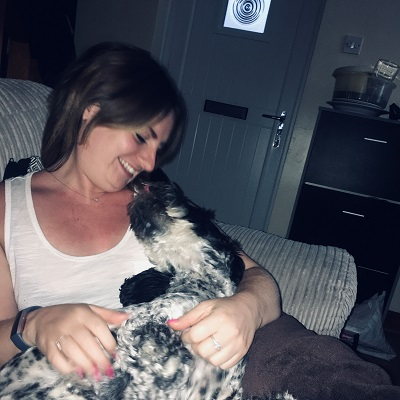
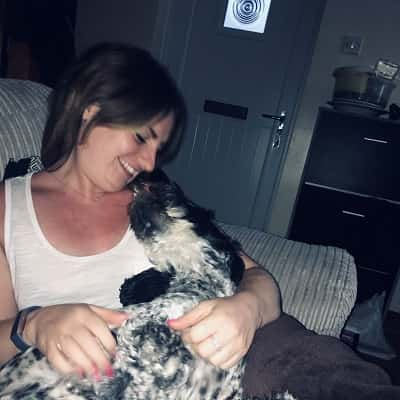
images compressed, css tweaks

diff --git a/pages/index.vue b/pages/index.vue
@@ -16,7 +16,7 @@
                   Dog Walking & Pet Sitting for your Furry Friends
                 </p>
               </div>
-              <nuxt-link to="/contact" class="btn btn btn-primary mt-3">
+              <nuxt-link to="/contact" class="btn btn btn-primary mt-3 pl-5 pr-5">
                 Contact Me
               </nuxt-link>
             </div>
@@ -26,8 +26,8 @@
     </section>
     <section id="about" class="container-fluid about-section">
       <div class="row">
-        <div class="col-12 col-md-6 order-md-2">
-          <div class="polaroid" data-aos="flip-up" data-aos-duration="1200" data-aos-offset="400">
+        <div class="col-12 col-md-6 order-md-2" data-aos="flip-up" data-aos-duration="1000" data-aos-offset="300">
+          <div class="polaroid">
             <img src="~static/img/happy-trails-zoe.jpeg" alt="happy trails pet services with a furry friend!">
             <div class="caption font-cursive">
               Hi, I'm Zoe, your fairy dog mother!
@@ -50,7 +50,7 @@
           <p>
             I am more than happy to help each and every one of you. My goal is to care and love your pets as much as you do and take them on fun adventures day in day out.
           </p>
-          <nuxt-link to="/contact" type="btn" class="btn btn-secondary ml-1">
+          <nuxt-link to="/contact" type="btn" class="btn btn-secondary ml-1 pl-5 pr-5">
             Contact Me
           </nuxt-link>
         </div>
@@ -125,7 +125,7 @@ export default {
   background: $site-blue;
 
   .polaroid {
-    max-width: 70%;
+    max-width: 76%;
     margin: 2rem auto;
     padding: 0.8rem;
     background: #fff;
@@ -194,7 +194,7 @@ export default {
 
 .about-section {
   padding-top: 100px;
-  padding-bottom: 100px;
+  padding-bottom: 9vw;
 }
 
 }

diff --git a/pages/contact.vue b/pages/contact.vue
@@ -2,7 +2,7 @@
   <div>
     <section class="contact">
       <div class="container">
-        <div class="row pb-3 pb-md-5">
+        <div class="row">
           <div class="col-12 text-right contact-main pr-0">
             <h1 class="font-cursive get-in-touch pl-3 pr-3">
               Get in touch
@@ -16,7 +16,7 @@
               <li><a href="https://www.instagram.com/happytrailspetservices"><fa :icon="['fab','instagram']" /><span class="pl-2 d-none d-md-inline">Follow me on Instagram: </span><h5 class="d-inline pl-2">happytrailspetservices</h5></a></li>
             </ul>
           </div>
-          <div class="col-12 pb-5">
+          <div class="col-12">
             <form method="POST" action="https://formspree.io/ed.walker@hotmail.co.uk">
               <div class="form-row">
                 <div class="form-group col-12 col-md-6">
@@ -39,7 +39,7 @@
                   <textarea id="message" class="form-control" name="message" required />
                 </div>
 
-                <button type="btn" class="btn btn-secondary ml-1">
+                <button type="btn" class="btn btn-secondary mt-3 ml-1 pl-5 pr-5">
                   Send
                 </button>
               </div>
@@ -74,6 +74,7 @@ section.contact {
     background: $site-blue;
     border-top: 30px solid white;
     margin-top: 82px;
+    padding-bottom: 15vw;
 
     h1.get-in-touch {
         display: inline;
@@ -129,6 +130,7 @@ section.contact {
 
   section.contact {
     margin-top: 120px;
+    padding-bottom: 9vw;
 
     ul.socials li a h5 {
       position: static;

diff --git a/pages/services.vue b/pages/services.vue
@@ -123,7 +123,7 @@
             <p class="pb-3">
               We tailor the care of your pet to your needs. A free in home consultation will take place prior to your service so you can meet us and we can meet you! How exciting, why not get in contact to see how we can help you and your furry friends?
             </p>
-            <nuxt-link to="/contact" class="btn btn-primary">
+            <nuxt-link to="/contact" class="btn btn-primary pl-5 pr-5">
               Contact Me
             </nuxt-link>
           </div>
@@ -234,7 +234,7 @@ export default {
 
 .faqs {
     background: $site-blue;
-    padding-bottom: 50px;
+    padding-bottom: 7vw;
 }
 
 // Medium devices (tablets, 768px and up)

diff --git a/components/AppNavbar.vue b/components/AppNavbar.vue
@@ -4,7 +4,7 @@
       <div class="row">
         <div class="nav-logo col-12 col-md-3">
           <NuxtLink to="/">
-            <img src="~static/img/happy-trails-logo.png" alt="" class="nav-logo-img p-1 pl-4" :class="{ scrolled : scrolled }">
+            <img src="~static/img/happy-trails-logo.png" alt="" class="nav-logo-img p-1 pl-md-4" :class="{ scrolled : scrolled }">
           </NuxtLink>
         </div>
         <div class="nav-links col-12 col-md-9" :class="{ menuActive : showMobileMenu }">
@@ -81,7 +81,7 @@ export default {
   background: white;
   border-bottom: 5px solid $site-blue;
   transition: 1s ease-in-out;
-  z-index: 499;
+  z-index: 9999;
 }
 
 .nav-logo-img {

diff --git a/pages/gallery.vue b/pages/gallery.vue
@@ -95,7 +95,7 @@ export default {
 .gallery {
 
     margin-top: 80px;
-    padding: 30px 0 80px 0;
+    padding: 30px 0 15vw 0;
     background-image: url('~static/img/grey-paw.png');
     background-position: 50% 50%;
     background-size: 80%;
@@ -117,7 +117,7 @@ export default {
     &:hover {
         transform: rotate(0);
         transform: scale(1.3);
-        z-index: 99999 !important;
+        z-index: 10 !important;
     }
   }
 
@@ -167,7 +167,7 @@ export default {
 
 .gallery {
 
-  padding-bottom: 120px;
+  padding-bottom: 9vw;
   background-size: 25%;
 
   .gallery-top-row {

diff --git a/components/AppFooter.vue b/components/AppFooter.vue
@@ -26,13 +26,13 @@ export default {
 <style scoped lang="scss">
 
 .container-fluid {
-    margin-top: -22px;
+    margin-top: -40px;
     overflow: hidden;
 
     img {
       width: 114%;
       position: relative;
-      top: 20px;
+      top: 2px;
       left: -6%;
       background-color: transparent;
     }
@@ -66,7 +66,7 @@ export default {
 // Medium devices (tablets, 768px and up)
 @media (min-width: 768px) {
     .container-fluid {
-      margin-top: -60px;
+      margin-top: -7vw;
 
       ul.footer-socials li a {
         padding: 1.8rem;

diff --git a/layouts/default.vue b/layouts/default.vue
@@ -69,6 +69,7 @@ h1 {
   background: $site-blue;
   border: 2px solid white;
   font-family: 'Ink Free', cursive;
+  font-weight: bold;
 
   &:hover {
     background: $site-grey;
@@ -81,6 +82,7 @@ h1 {
   background: $site-grey;
   border: 2px solid white;
   font-family: 'Ink Free', cursive;
+  font-weight: bold;
 
   &:hover {
     background: $site-blue;
